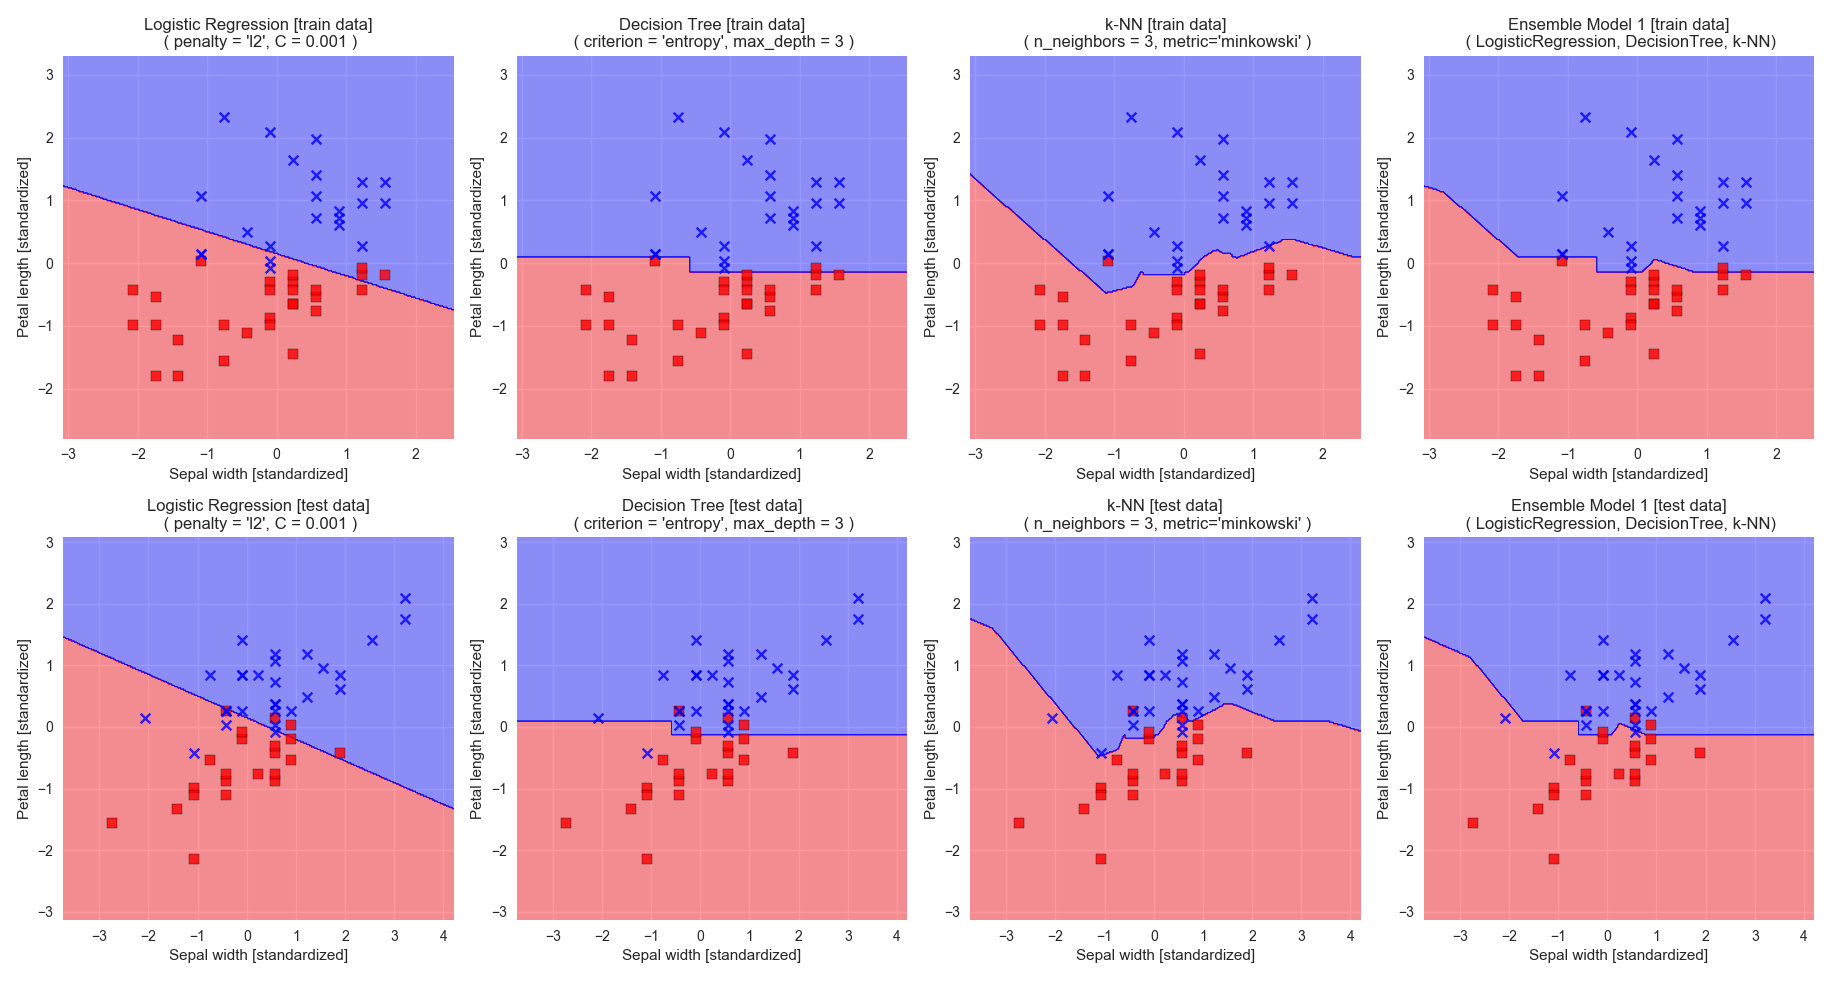
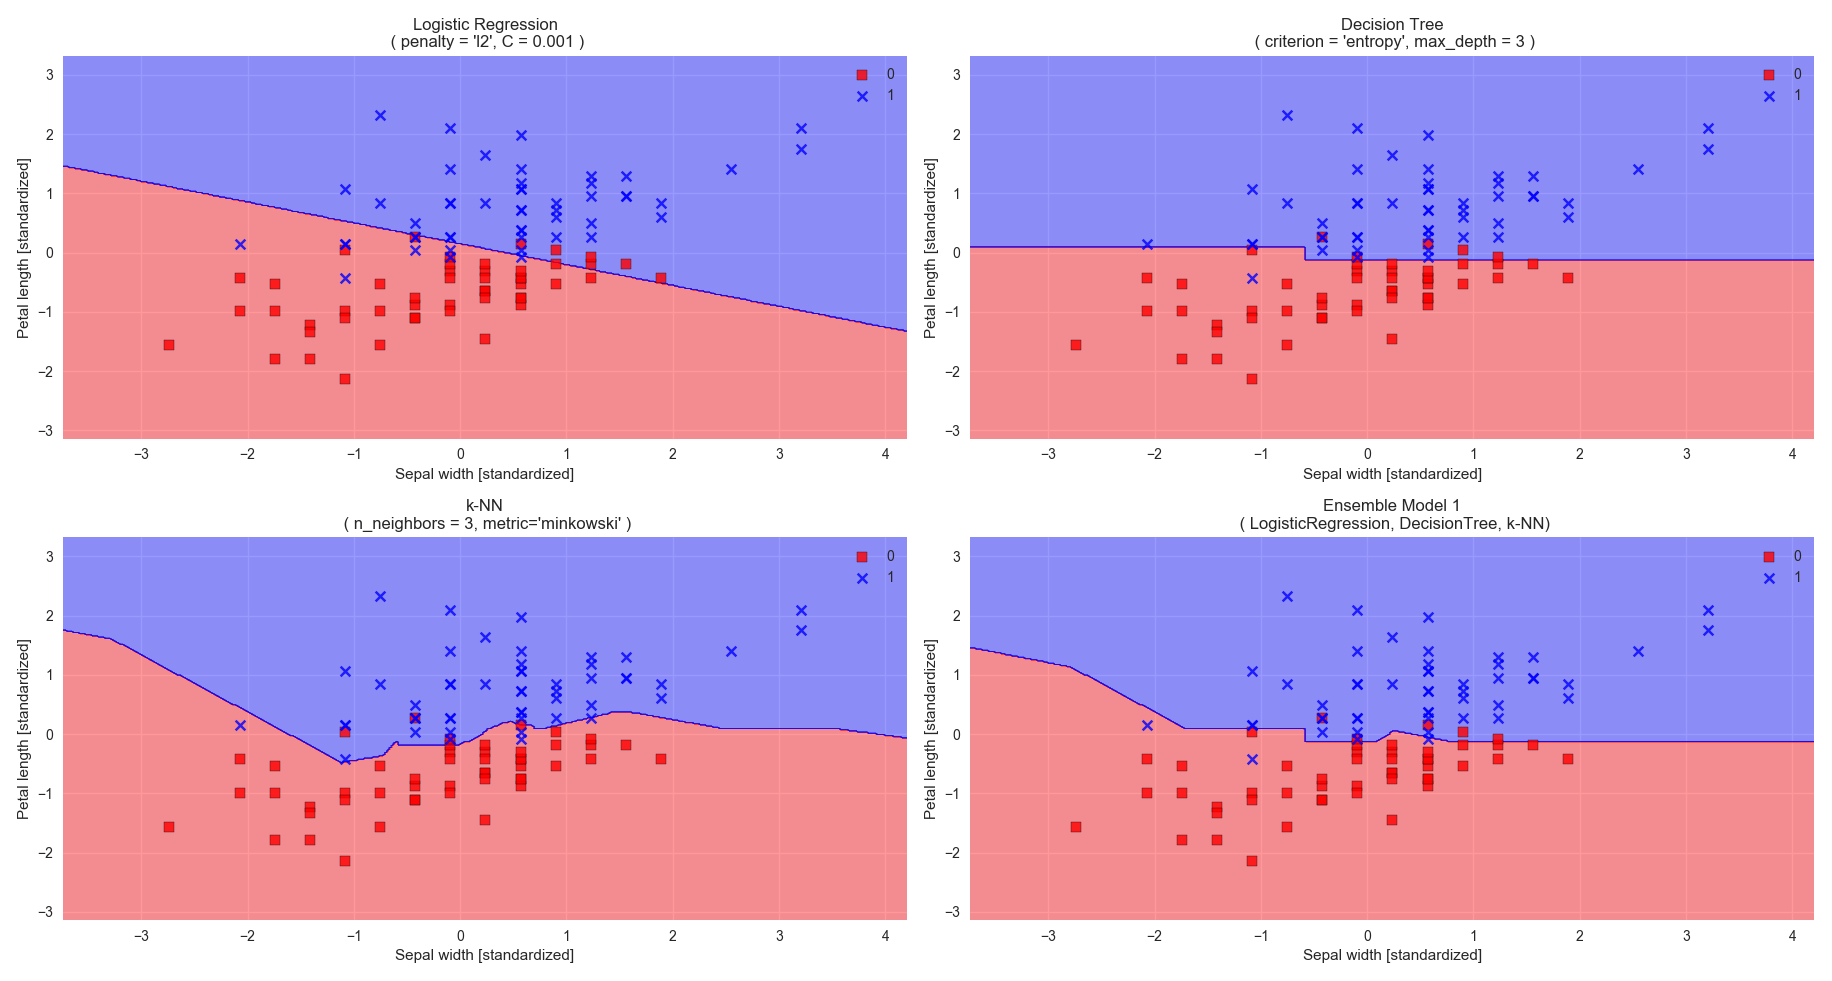
Add files via upload

diff --git a/EnsembleLearning_scikit-learn/main2.py b/EnsembleLearning_scikit-learn/main2.py
@@ -44,20 +44,12 @@ def main():
 
     # データの読み込み
     iris = datasets.load_iris()
+    print(iris)
 
-    dat_X = iris.data[ 50:, [1, 2] ]
-    dat_y = iris.target[50:]
-
-
-    """
-    # 重み付き多数決 : y_predict = arg max∑w*x(classifiler = i)
-    # numpy.bincount() : 引数 x における各値の出現に対し, 引数 weights で重み付けする. 
-    weight_result = numpy.bincount( [0, 0, 1], weights = [0.2, 0.2, 0.6] )
-    # numpy.argmax() : 引数 a の値の内で最大値のインデックス値
-    argmax_result = numpy.argmax( a = weight_result )
-    print( "numpy.bincount() : \n", weight_result )
-    print( "numpy.argmax() : \n", argmax_result )
-    """
+    dat_X = iris.data[ 50:, [1, 2] ]    # 
+    dat_y = iris.target[50:]            # 
+    print(dat_X)
+    print(dat_y)
 
     #===========================================
     # 前処理 [PreProcessing]
@@ -74,6 +66,9 @@ def main():
     # データをトレードオフデータとテストデータに分割
     X_train, X_test, y_train, y_test \
     = DataPreProcess.DataPreProcess.dataTrainTestSplit( X_input = dat_X, y_input = dat_y, ratio_test = 0.5, input_random_state = 1 )
+
+    test_idx = []
+    #test_idx = range( 26,50 )
 
     #
     stdScaler = StandardScaler()
@@ -188,13 +183,13 @@ def main():
 
     # 各種スコア計算時に使用する識別器のリスト ( for 文の in で使用を想定) 
     all_clf = []
-    all_clf = ensemble_clf1.classifiers_
+    all_clf = ensemble_clf2.classifiers_
     #all_clf.append( ensemble_clf1 )
     #print( "all_clf :", all_clf )
 
     # 各種スコア計算時に使用するクラスラベルのリスト ( for 文の in で使用を想定)
     all_clf_labels = []
-    all_clf_labels = ensemble_clf1.get_class_labels()
+    all_clf_labels = ensemble_clf2.get_class_labels()
     #all_clf_labels.append( "Ensemble Model 1" )
     #print( "all_clf_labels :", all_clf_labels )
 
@@ -310,69 +305,39 @@ def main():
     #-------------------------------------------
     plt.clf()
 
-    # train data
-    plt.subplot( 2, 4, 1 )
-    Plot2D.Plot2D.drawDiscriminantRegions( X_train_std, y_train, classifier = all_clf[0] )
-    plt.title( ensemble_clf1.get_class_labels()[0] + " [train data]" +"\n ( penalty = 'l2', C = 0.001 )" )
+    plt.subplot( 2, 2, 1 )
+    Plot2D.Plot2D.drawDiscriminantRegions( X_combined_std, y_combined, classifier = all_clf[0] )
+    plt.title( ensemble_clf1.get_class_labels()[0] + "\n ( penalty = 'l2', C = 0.001 )" )
     plt.xlabel( "Sepal width [standardized]" )
     plt.ylabel( "Petal length [standardized]" )
+    plt.legend(loc = "best")
     plt.tight_layout()
 
-    plt.subplot( 2, 4, 2 )
-    Plot2D.Plot2D.drawDiscriminantRegions( X_train_std, y_train, classifier =  all_clf[1] )
-    plt.title( ensemble_clf1.get_class_labels()[1]  + " [train data]" + "\n ( criterion = 'entropy', max_depth = 3 )")
+    plt.subplot( 2, 2, 2 )
+    Plot2D.Plot2D.drawDiscriminantRegions( X_combined_std, y_combined, classifier =  all_clf[1] )
+    plt.title( ensemble_clf1.get_class_labels()[1]  + "\n ( criterion = 'entropy', max_depth = 3 )")
     plt.xlabel( "Sepal width [standardized]" )
     plt.ylabel( "Petal length [standardized]" )
+    plt.legend(loc = "best")
     plt.tight_layout()
 
-    plt.subplot( 2, 4, 3 )
-    Plot2D.Plot2D.drawDiscriminantRegions( X_train_std, y_train, classifier =  all_clf[2] )
-    plt.title( ensemble_clf1.get_class_labels()[2]  + " [train data]" + "\n ( n_neighbors = 3, metric='minkowski' )")
-    #plt.title( ensemble_clf1.get_class_labels()[2]  + " [train data]" + "\n ( kernel = 'rbf', C = 0.5, gamma = 0.10 )")
+    plt.subplot( 2, 2, 3 )
+    Plot2D.Plot2D.drawDiscriminantRegions( X_combined_std, y_combined, classifier =  all_clf[2] )
+    #plt.title( ensemble_clf1.get_class_labels()[2]  + "\n ( n_neighbors = 3, metric='minkowski' )")
+    plt.title( ensemble_clf1.get_class_labels()[2] + "\n ( kernel = 'rbf', C = 0.5, gamma = 0.10 )")
     plt.xlabel( "Sepal width [standardized]" )
     plt.ylabel( "Petal length [standardized]" )
+    plt.legend(loc = "best")
     plt.tight_layout()
 
-    plt.subplot( 2, 4, 4 )
-    Plot2D.Plot2D.drawDiscriminantRegions( X_train_std, y_train, classifier = ensemble_clf1 )
-    plt.title( "Ensemble Model 1"  + " [train data]" + "\n ( LogisticRegression, DecisionTree, k-NN)")
-    #plt.title( "Ensemble Model 2"  + " [train data]" + "\n ( LogisticRegression, DecisionTree, SVM)")
+    plt.subplot( 2, 2, 4 )
+    Plot2D.Plot2D.drawDiscriminantRegions( X_combined_std, y_combined, classifier = ensemble_clf1 )
+    #plt.title( "Ensemble Model 1"  + "\n ( LogisticRegression, DecisionTree, k-NN)")
+    plt.title( "Ensemble Model 2"+ "\n ( LogisticRegression, DecisionTree, SVM)")
     plt.xlabel( "Sepal width [standardized]" )
     plt.ylabel( "Petal length [standardized]" )
+    plt.legend(loc = "best")
     plt.tight_layout()
-
-
-    # test data
-    plt.subplot( 2, 4, 5 )
-    Plot2D.Plot2D.drawDiscriminantRegions( X_test_std, y_test, classifier =  all_clf[0] )
-    plt.title( ensemble_clf1.get_class_labels()[0] + " [test data]" +"\n ( penalty = 'l2', C = 0.001 )" )
-    plt.xlabel( "Sepal width [standardized]" )
-    plt.ylabel( "Petal length [standardized]" )
-    plt.tight_layout()
-
-    plt.subplot( 2, 4, 6 )
-    Plot2D.Plot2D.drawDiscriminantRegions( X_test_std, y_test, classifier =  all_clf[1] )
-    plt.title( ensemble_clf1.get_class_labels()[1]  + " [test data]" + "\n ( criterion = 'entropy', max_depth = 3 )")
-    plt.xlabel( "Sepal width [standardized]" )
-    plt.ylabel( "Petal length [standardized]" )
-    plt.tight_layout()
-
-    plt.subplot( 2, 4, 7 )
-    Plot2D.Plot2D.drawDiscriminantRegions( X_test_std, y_test, classifier =  all_clf[2] )
-    plt.title( ensemble_clf1.get_class_labels()[2]  + " [test data]" + "\n ( n_neighbors = 3, metric='minkowski' )")
-    #plt.title( ensemble_clf1.get_class_labels()[2]  + " [test data]" + "\n ( kernel = 'rbf', C = 0.5, gamma = 0.10 )")
-    plt.xlabel( "Sepal width [standardized]" )
-    plt.ylabel( "Petal length [standardized]" )
-    plt.tight_layout()
-
-    plt.subplot( 2, 4, 8 )
-    Plot2D.Plot2D.drawDiscriminantRegions( X_test_std, y_test, classifier = ensemble_clf1 )
-    plt.title( "Ensemble Model 1"  + " [test data]" + "\n ( LogisticRegression, DecisionTree, k-NN)")
-    #plt.title( "Ensemble Model 2"  + " [test data]" + "\n ( LogisticRegression, DecisionTree, SVM)")
-    plt.xlabel( "Sepal width [standardized]" )
-    plt.ylabel( "Petal length [standardized]" )
-    plt.tight_layout()
-
 
     plt.savefig("./EnsembleLearning_scikit-learn_2.png", dpi = 300, bbox_inches = 'tight' )
     plt.show()

diff --git a/EnsembleLearning_scikit-learn/README.md b/EnsembleLearning_scikit-learn/README.md
@@ -85,9 +85,14 @@ https://docs.scipy.org/doc/scipy-0.18.1/reference/generated/scipy.misc.comb.html
     - ３つ目のパイプラインの推定器は、k-NN 法 : </br>`( "clf", KNeighborsClassifier( n_neighbors = 3, p = 2, metric = 'minkowski' )`
 - クロス・バディゲーション k-fold CV (k=10) で汎化性能を評価 : </br>`sklearn.model_selection.cross_val_score()` を使用
 
-#### Iris データセット（トレーニングデータ 50% 、テストデータ 50%の割合で分割）での検証結果
+#### Iris データセットでの検証結果
 
-> 各種スコア値 by k-fold CV (cv=10) :（チューニング前）
+> Iris データ : `datasets.load_iris()`</br>
+>>・特徴行列（特徴量2個×50個のサンプル） : `iris.data[ 50:, [1, 2] ]`</br>
+>>・教師データ（50個のサンプル） : `iris.target[50:]`</br>
+>>・トレーニングデータ 50% 、テストデータ 50%の割合で分割 : </br>`sklearn.cross_validation.train_test_split( test_size = 0.5, random_state = 1 )`
+
+>各種スコア値 by k-fold CV (cv=10) :（チューニング前）
 
 |Model (classifiers)|Accuracy</br>[train data]|Accuracy</br>[test data]|AUC</br>[train data]|AUC</br>[test data]|
 |---|---|---|---|---|
@@ -103,9 +108,9 @@ https://docs.scipy.org/doc/scipy-0.18.1/reference/generated/scipy.misc.comb.html
 > 識別結果＆識別境界（チューニング前）
 >> チューニング前の適当なハイパーパラメータでの各弱識別器＆これらのアンサンブルモデルでの識別結果＆識別境界の図。上段の図がトレーニングデータでの結果。下段がテストデータでの結果。アンサンブルモデルでは、これを構成する個々の弱識別器の識別境界を混ぜ合わせた形状になっていることが分かる。
 
-![ensemblelearning_scikit-learn_2-1](https://user-images.githubusercontent.com/25688193/29748312-3d019e96-8b4f-11e7-9ee1-845eba6df331.png)
+![ensemblelearning_scikit-learn_2-1](https://user-images.githubusercontent.com/25688193/29749753-95efb334-8b6e-11e7-940e-b8bd236c6af8.png)
+![ensemblelearning_scikit-learn_2-2](https://user-images.githubusercontent.com/25688193/29749754-97bf6c54-8b6e-11e7-929e-d31e19d5ab55.png)
 
-![ensemblelearning_scikit-learn_2-2](https://user-images.githubusercontent.com/25688193/29748309-2e737764-8b4f-11e7-8bc6-e62332dd0c8b.png)
 
 </br>
 
